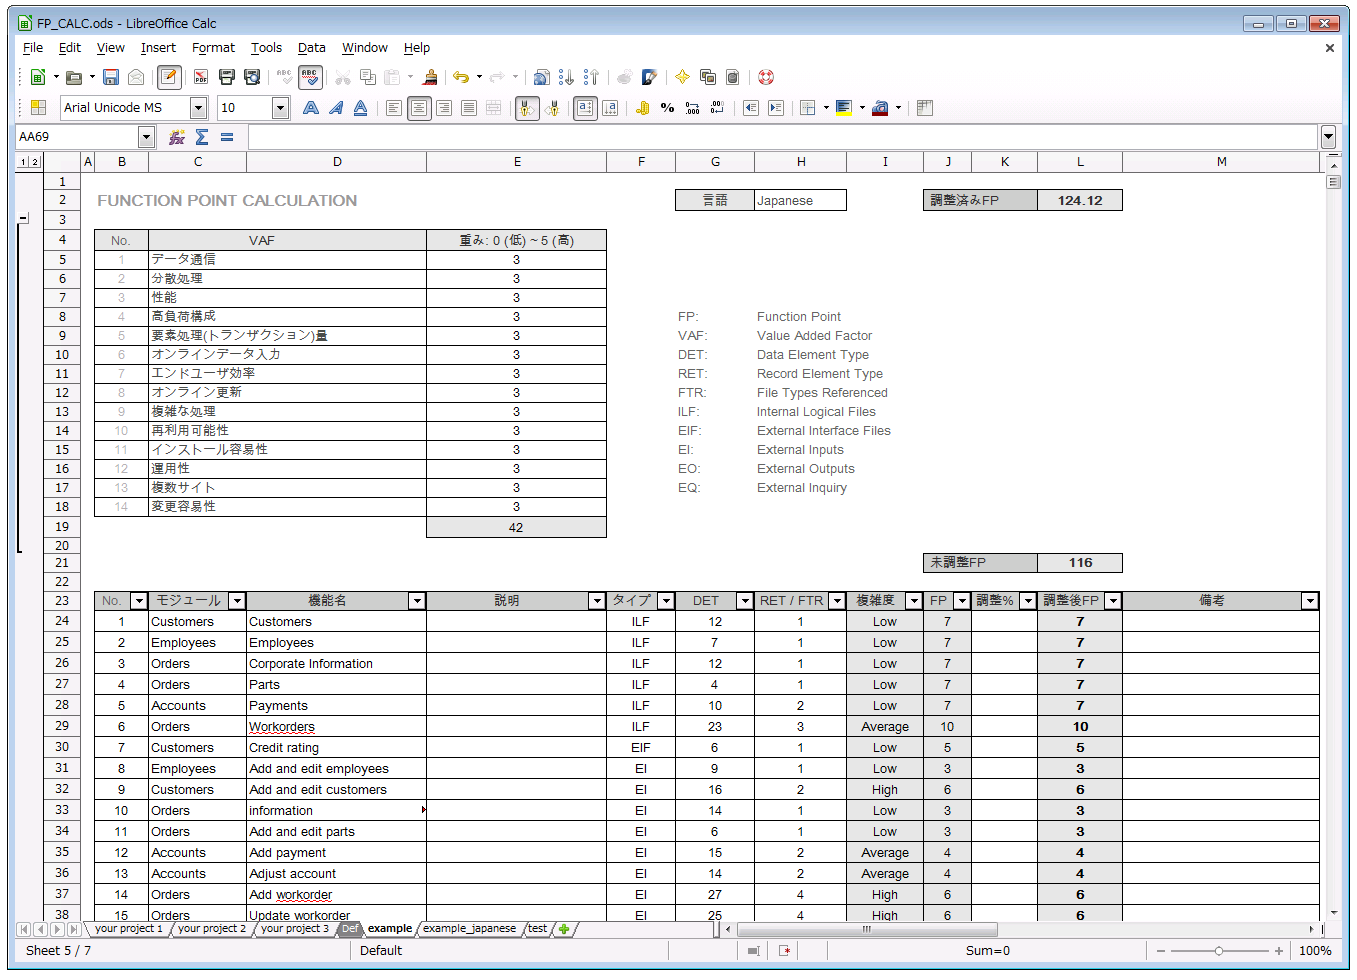
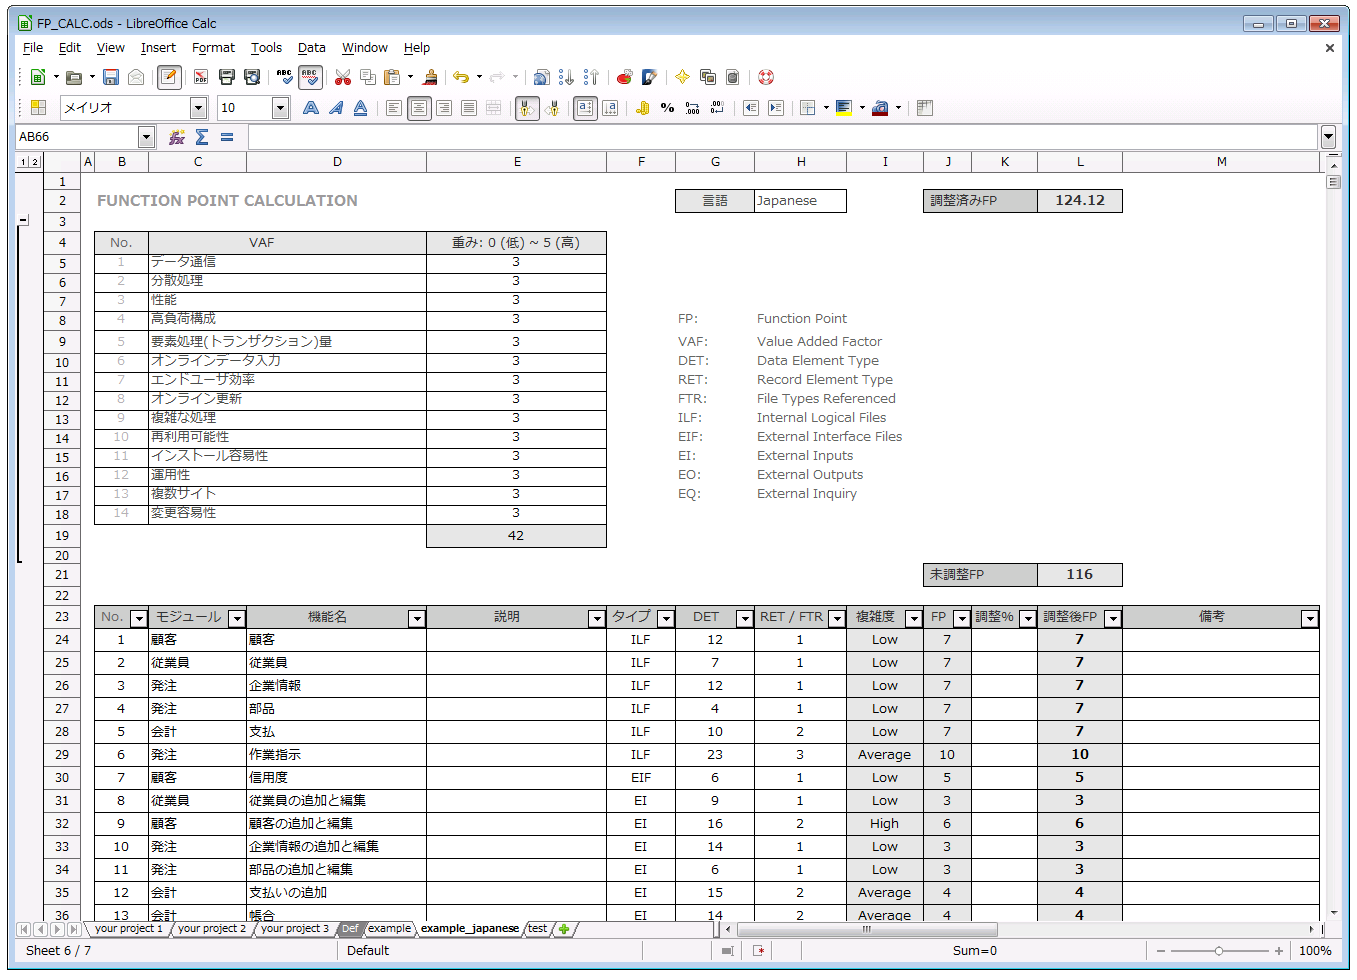
added japanese example

diff --git a/README.md b/README.md
@@ -13,7 +13,11 @@ Highlight:
 * Support localizations (currently english, japanese and simplified chinese).
 * Both LibreOffice Calc (*.ods) and MS Excel (*.xlsx) format
 
+Example
 ![Libre Calc example](/images/image_FP_CALC_ods.png "Sample Calc format")
+
+Japanese example:
+![Libre Calc example - Japanese](/images/image_FP_CALC_ods-ja.png "Sample Calc format - Japanese")
 
 Idea of this tool came from some good pioneers below:
 * http://www.brettboschma.com/portfolio/measurement.html
